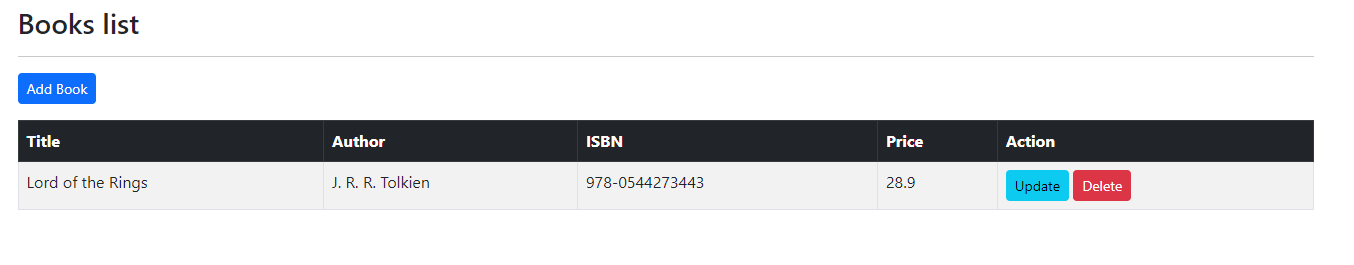
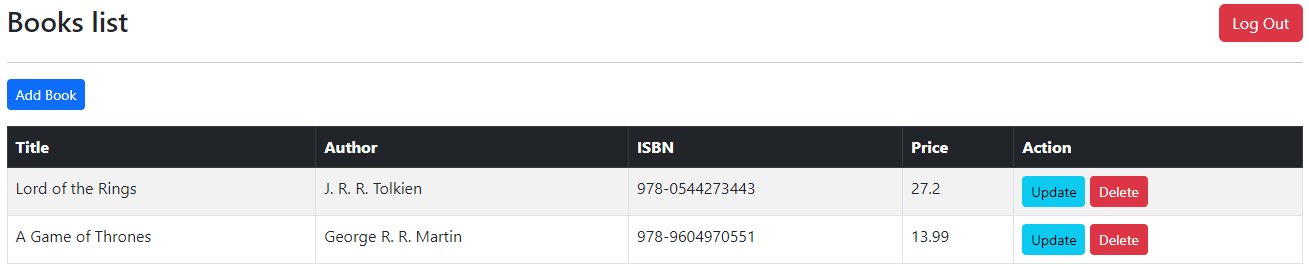
Added login / logout functionality whith Spring Security

diff --git a/src/main/resources/templates/books/login.html b/src/main/resources/templates/books/login.html
@@ -1,0 +1,39 @@
+<!DOCTYPE html>
+<html xmlns="http://www.w3.org/1999/xhtml" xmlns:th="https://www.thymeleaf.org">
+<head>
+    <title>Spring Security Example</title>
+    <link rel="stylesheet" href="https://cdnjs.cloudflare.com/ajax/libs/bootstrap/5.3.1/css/bootstrap.min.css" integrity="sha512-Z/def5z5u2aR89OuzYcxmDJ0Bnd5V1cKqBEbvLOiUNWdg9PQeXVvXLI90SE4QOHGlfLqUnDNVAYyZi8UwUTmWQ==" crossorigin="anonymous" referrerpolicy="no-referrer" /></head>
+<body>
+<div class="container mt-5">
+    <!-- Display error message -->
+    <div th:if="${param.error}" class="alert alert-danger" role="alert">
+        Invalid username and password.
+    </div>
+
+    <!-- Display logout message -->
+    <div th:if="${param.logout}" class="alert alert-success" role="alert">
+        You have been logged out.
+    </div>
+
+    <!-- Login form -->
+    <div class="card">
+        <div class="card-header">
+            Login
+        </div>
+        <div class="card-body">
+            <form th:action="@{/login}" method="post">
+                <div class="form-group mt-3">
+                    <label for="username">User Name</label>
+                    <input type="text" class="form-control" id="username" name="username" placeholder="Enter username">
+                </div>
+                <div class="form-group mt-3">
+                    <label for="password">Password</label>
+                    <input type="password" class="form-control" id="password" name="password" placeholder="Password">
+                </div>
+                <button type="submit" class="btn btn-primary mt-3">Sign In</button>
+            </form>
+        </div>
+    </div>
+</div>
+</body>
+</html>

diff --git a/src/main/resources/templates/books/list-books.html b/src/main/resources/templates/books/list-books.html
@@ -15,7 +15,13 @@
 
 <div class="container">
 
-    <h3 class="mt-3">Books list</h3>
+    <div class="d-flex justify-content-between mt-3">
+        <h3>Books list</h3>
+        <form action="/logout" method="post" th:action="@{/logout}">
+            <input type="hidden" name="${_csrf.parameterName}" value="${_csrf.token}"/>
+            <button type="submit" class="btn btn-danger">Log Out</button>
+        </form>
+    </div>
     <hr>
 
     <a th:href="@{/books/addBook}"

diff --git a/src/main/java/gr/aueb/cf/booksappfinal/config/SecConfig.java b/src/main/java/gr/aueb/cf/booksappfinal/config/SecConfig.java
@@ -1,0 +1,45 @@
+package gr.aueb.cf.booksappfinal.config;
+
+import org.springframework.context.annotation.Bean;
+import org.springframework.context.annotation.Configuration;
+import org.springframework.security.config.annotation.web.builders.HttpSecurity;
+import org.springframework.security.config.annotation.web.configuration.EnableWebSecurity;
+import org.springframework.security.core.userdetails.User;
+import org.springframework.security.core.userdetails.UserDetails;
+import org.springframework.security.core.userdetails.UserDetailsService;
+import org.springframework.security.provisioning.InMemoryUserDetailsManager;
+import org.springframework.security.web.SecurityFilterChain;
+import org.springframework.security.web.util.matcher.AntPathRequestMatcher;
+
+@Configuration
+@EnableWebSecurity
+public class SecConfig {
+    @Bean
+    public SecurityFilterChain securityFilterChain(HttpSecurity http) throws Exception {
+        http
+                .authorizeHttpRequests((requests) -> requests
+                        .requestMatchers(new AntPathRequestMatcher("/login")).permitAll()
+                        .anyRequest().authenticated()
+                )
+                .formLogin((form) -> form
+                        .loginPage("/login")
+                        .permitAll()
+                )
+                .logout((logout) -> logout.permitAll());
+
+        return http.build();
+    }
+
+    @Bean
+    public UserDetailsService userDetailsService() {
+        UserDetails user =
+                User.withDefaultPasswordEncoder()
+                        .username("user")
+                        .password("password")
+                        .roles("USER")
+                        .build();
+
+        return new InMemoryUserDetailsManager(user);
+    }
+
+}

diff --git a/src/main/java/gr/aueb/cf/booksappfinal/config/ViewConfig.java b/src/main/java/gr/aueb/cf/booksappfinal/config/ViewConfig.java
@@ -1,0 +1,15 @@
+package gr.aueb.cf.booksappfinal.config;
+
+import org.springframework.context.annotation.Configuration;
+import org.springframework.web.servlet.config.annotation.ViewControllerRegistry;
+import org.springframework.web.servlet.config.annotation.WebMvcConfigurer;
+
+@Configuration
+public class ViewConfig implements WebMvcConfigurer {
+
+    public void addViewControllers(ViewControllerRegistry registry) {
+        registry.addViewController("/books/list").setViewName("/books/list-books");
+        registry.addViewController("/login").setViewName("/books/login");
+    }
+
+}

diff --git a/src/main/java/gr/aueb/cf/booksappfinal/BooksAppFinal.java b/src/main/java/gr/aueb/cf/booksappfinal/BooksAppFinal.java
@@ -6,7 +6,7 @@ import org.springframework.boot.autoconfigure.SpringBootApplication;
 @SpringBootApplication
 public class BooksAppFinal {
 
-    public static void main(String[] args) {
+    public static void main(String[] args) throws Throwable {
         SpringApplication.run(BooksAppFinal.class, args);
     }
 

diff --git a/README.md b/README.md
@@ -20,3 +20,4 @@ Here are some screenshots demonstrating the functionalities of the application:
 ![List of Books](./images/list.png)
 ![Update Book](./images/update.png)
 ![Validation](./images/validate.png)
+![Logout](./images/logout.png)
